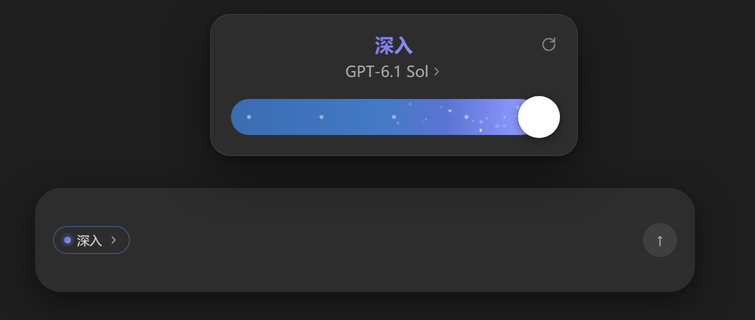
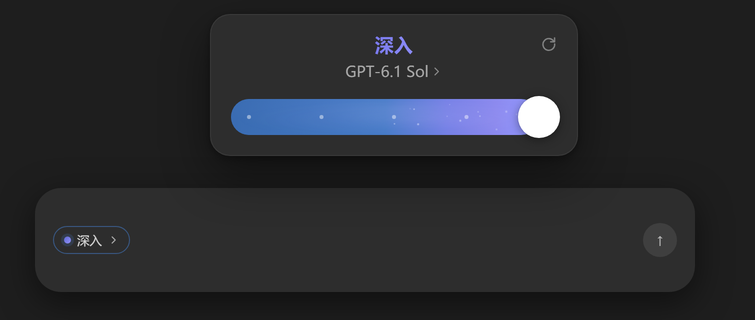
refine(ultra): 审美方向交给 gpt-6.1-sol，重做浮尘与材质光
扫描放慢到 2.8s / cubic-bezier(.30,.08,.25,1)，并整体重做最高档的质感：

- 浮尘 36 → 24 颗，三层景深（18 远景小而实 / 5 中景小实核 / 4→1 近景大而虚），
  用径向渐变软边代替纯白实心 + box-shadow 光晕。
- 运动改成两轴独立周期（X 10-23s、Y 7.5-18s、均闭合往返），合成弯曲轨迹，
  不再是一根直线来回，也不会全体同步；明灭改成 5.3-9.1s 呼吸，不再闪。
- 新增材质柔光层（11.7s 只动 opacity）+ 表面静态径向高光，负责「材质发光」。
- 显眼的几颗按左到右手工打散纵向位置，不再落在同一水平线上。
- 外溅收敛到 10 颗、偏紫 #7772d8。
- 补 prefers-reduced-motion 兜底。

保持的部分：材质色仍是我对参考图逐像素采样的结果；扫描仍是滑动渐变
（Sol 建议的「钉住材质 + 反向位移」会换来一道硬边，与参考的柔和前沿不符）。
验证：冻结帧 20/50/85/100% 确认前沿依次左移且无硬边；开/关运动两张图对比，
同颗粒子位移平均 7.1px、最大 14.7px（2x 缩放）。

Changed region(s): [[0.5179, 0.3125, 0.6397, 0.4375]]

diff --git a/lib/client.js b/lib/client.js
@@ -133,60 +133,97 @@ body:not([data-ds-dark-theme]) .dshcps-tip{
   background:linear-gradient(90deg,var(--dshcps-accent-dim),var(--dshcps-accent));
   transition:width .24s cubic-bezier(.2,0,0,1),background .24s ease;
 }
-/* 最高档：一条 2 倍宽的渐变，左半是基础蓝、右半是紫色本体，靠 background-position
-   把「取景窗」从右往左推 —— 紫色就从右边缘滑进来，一路铺满整条轨道。
-   只用 background-position 做动画（插值一定平滑），而且过渡带天然是软的；
-   前沿的颜色接着基础蓝（#447ac6 → #5b74d3），所以看不到硬边。 */
+/* 最高档（Ultra）：一条 2 倍宽的材质（左半基础蓝、右半紫蓝本体），用
+   background-position 把「取景窗」从右往左推 —— 紫色连同星尘一起从右边缘铺开。
+   只动 background-position 的插值一定平滑，而且两半在基础蓝处接续，
+   所以扫描前沿是一道柔和的过渡，不是一刀切。
+   顶层那圈径向柔光不动，只呼吸，负责「材质里有光」而不是「白点堆叠」。 */
 .dshcps-ultra{
-  position:absolute; inset:0; border-radius:inherit; overflow:hidden;
-  background-image:linear-gradient(90deg,
-    var(--dshcps-accent-dim) 0%, #3a6cb2 25%, var(--dshcps-accent) 50%,
-    #5b74d3 60%, #8896fa 71%, #9298ff 76%, #8a8bf6 81%,
-    #6d72db 88%, #5f68d0 95%, #616dd3 100%);
-  background-size:200% 100%;
+  position:absolute; inset:0; overflow:hidden; border-radius:inherit; pointer-events:none;
+  --dshcps-sweep:2.8s;
+  --dshcps-sweep-ease:cubic-bezier(.30,.08,.25,1);
+  background-image:
+    radial-gradient(ellipse at 54% 28%,
+      rgba(211,203,255,.14) 0%, rgba(185,175,255,.05) 38%, rgba(185,175,255,0) 72%),
+    linear-gradient(90deg,
+      var(--dshcps-accent-dim) 0%, #3a6cb2 25%, var(--dshcps-accent) 50%,
+      #737fe5 60%, #8b89ee 68%, #9298ff 74%, #908cf1 79%,
+      #7b7be3 88%, #616dd3 100%);
+  background-size:100% 100%, 200% 100%;
   background-repeat:no-repeat;
-  background-position:0% 0%;
-  animation:dshcps-ultra-sweep .95s cubic-bezier(.2,.72,.24,1) both;
+  background-position:0 0, 0% 0%;
+  animation:dshcps-ultra-sweep var(--dshcps-sweep) var(--dshcps-sweep-ease) both;
 }
 @keyframes dshcps-ultra-sweep{
-  0%{background-position:0% 0%}
-  100%{background-position:100% 0%}
+  0%{background-position:0 0, 0% 0%}
+  100%{background-position:0 0, 100% 0%}
 }
+/* 材质柔光：只改 opacity，不动 background-position，也不做 blur。 */
+.dshcps-ultra-haze{
+  position:absolute; inset:0; pointer-events:none;
+  background:radial-gradient(ellipse at 61% 58%,
+    rgba(218,204,255,.22) 0%, rgba(199,187,255,.08) 34%, rgba(199,187,255,0) 72%);
+  animation:dshcps-haze-breathe 11.7s ease-in-out infinite;
+  animation-delay:-3.8s;
+}
+@keyframes dshcps-haze-breathe{ 0%,100%{opacity:.2} 50%{opacity:.49} }
+
+/* 星尘跟着同一套时长/缓动被揭示，做到「紫到哪儿、粒子到哪儿」。 */
 .dshcps-stars{
   position:absolute; inset:0; pointer-events:none;
-  animation:dshcps-ultra-stars-in .95s cubic-bezier(.2,.72,.24,1) both;
+  animation:dshcps-ultra-stars-in var(--dshcps-sweep) var(--dshcps-sweep-ease) both;
 }
 @keyframes dshcps-ultra-stars-in{
-  0%{clip-path:inset(0 0 0 96% round 999px);opacity:.25}
+  0%{clip-path:inset(0 0 0 96% round 999px);opacity:.2}
   100%{clip-path:inset(0 0 0 0% round 999px);opacity:1}
 }
-.dshcps-stars{position:absolute;inset:0;pointer-events:none}
+/* 固定锚点，不承担动画；X / Y 各自一个周期，合起来不是直线往返也不会全体同步。 */
+.dshcps-particle{position:absolute; width:0; height:0}
+.dshcps-particle-x,.dshcps-particle-y{position:absolute; left:0; top:0; width:0; height:0}
+.dshcps-particle-x{animation:dshcps-dust-x var(--dshcps-tx) ease-in-out infinite; animation-delay:var(--dshcps-delay-x)}
+.dshcps-particle-y{animation:dshcps-dust-y var(--dshcps-ty) ease-in-out infinite; animation-delay:var(--dshcps-delay-y)}
+@keyframes dshcps-dust-x{
+  0%,100%{transform:translate3d(calc(0px - var(--dshcps-ax)),0,0)}
+  50%{transform:translate3d(var(--dshcps-ax),0,0)}
+}
+@keyframes dshcps-dust-y{
+  0%,100%{transform:translate3d(0,calc(0px - var(--dshcps-ay)),0)}
+  50%{transform:translate3d(0,var(--dshcps-ay),0)}
+}
 .dshcps-star{
-  position:absolute; border-radius:50%; background:#fff;
-  animation:dshcps-twinkle var(--tw,3s) ease-in-out infinite,
-            dshcps-drift var(--dr,6s) ease-in-out infinite alternate;
+  position:absolute; display:block; left:0; top:0; border-radius:50%; pointer-events:none;
+  width:var(--dshcps-size); height:var(--dshcps-size);
+  margin-left:calc(var(--dshcps-size) * -.5); margin-top:calc(var(--dshcps-size) * -.5);
+  animation:dshcps-dust-breathe var(--dshcps-tw) ease-in-out infinite;
+  animation-delay:var(--dshcps-delay-tw);
 }
-.dshcps-star.is-glow{box-shadow:0 0 6px rgba(255,255,255,.55)}
-@keyframes dshcps-twinkle{
-  0%,100%{opacity:var(--dshcps-o,.8)}
-  50%{opacity:calc(var(--dshcps-o,.8) * .3)}
+/* 三层景深：远景小而实、中景有小实核、近景大而虚（用径向渐变软边代替动态 blur） */
+.dshcps-star--far{background:#dce5ff}
+.dshcps-star--mid{background:radial-gradient(circle,
+  rgba(245,244,255,.96) 0%, rgba(225,229,255,.83) 32%, rgba(211,220,255,.34) 64%, rgba(211,220,255,0) 100%)}
+.dshcps-star--near{background:radial-gradient(circle,
+  rgba(235,231,255,.82) 0%, rgba(218,215,255,.48) 27%, rgba(205,207,255,.14) 58%, rgba(205,207,255,0) 76%)}
+@keyframes dshcps-dust-breathe{
+  0%,100%{opacity:var(--dshcps-o-low);transform:scale(.94)}
+  50%{opacity:var(--dshcps-o);transform:scale(1.06)}
 }
-/* 粒子会飘：缓慢来回漂移，配合闪烁像浮在紫色里 */
-@keyframes dshcps-drift{
-  from{transform:translate3d(0,0,0)}
-  to{transform:translate3d(var(--dx,5px),var(--dy,-3px),0)}
-}
-/* 档位切换到最高档时，从拖柄位置向外溅一小簇粒子（蔓延出去那一下） */
+/* 切档的外溅只是标点，不抢常驻浮尘的戏；颜色偏紫而不是纯白烟花。 */
 .dshcps-burst{position:absolute;top:50%;width:0;height:0;pointer-events:none}
 .dshcps-spark{
-  position:absolute;left:0;top:0;border-radius:50%;background:#fff;
-  animation:dshcps-spark 1.15s cubic-bezier(.18,.7,.3,1) both;
+  position:absolute;left:0;top:0;border-radius:50%;background:#7772d8;box-shadow:none;
+  animation:dshcps-spark .95s cubic-bezier(.18,.65,.3,1) both;
   animation-delay:var(--d,0s);
 }
 @keyframes dshcps-spark{
-  0%{opacity:0;transform:translate3d(0,0,0) scale(.35)}
-  16%{opacity:var(--o,.9)}
-  100%{opacity:0;transform:translate3d(var(--sx),var(--sy),0) scale(1)}
+  0%{opacity:0;transform:translate3d(0,0,0) scale(.45)}
+  18%{opacity:calc(var(--o,.6) * .65)}
+  100%{opacity:0;transform:translate3d(var(--sx),var(--sy),0) scale(.8)}
+}
+@media (prefers-reduced-motion:reduce){
+  .dshcps-ultra,.dshcps-ultra-haze,
+  .dshcps-particle-x,.dshcps-particle-y,.dshcps-star{animation:none}
+  .dshcps-star{opacity:var(--dshcps-o)}
+  .dshcps-burst{display:none}
 }
 .dshcps-dot{
   position:absolute; top:50%; width:4px; height:4px; margin:-2px 0 0 -2px; border-radius:50%;
@@ -360,80 +397,138 @@ body:not([data-ds-dark-theme]) .dshcps-tip{
       )
     }
 
-    /** 粒子层：位置/大小/漂移方向都由档位 id 决定，稳定且不需要 canvas。 */
-    function StarField({ seedKey, count = 34 }) {
-      const stars = React.useMemo(() => {
-        const random = makeRandom(hashSeed(seedKey))
-        const out = []
-        for (let i = 0; i < count; i++) {
-          const size = 1.4 + random() * 2.6
-          // 中间偏右更密一点，和原版一样是「从右侧蔓过来」的感觉
-          const bias = random()
-          out.push({
-            left: 1 + (bias < 0.55 ? Math.pow(random(), 0.75) : random()) * 97,
-            top: 10 + random() * 80,
-            size,
-            glow: size > 2.6,
-            opacity: 0.26 + random() * 0.7,
-            twinkle: 2 + random() * 2.2,
-            twinkleDelay: -random() * 3,
-            drift: 4.5 + random() * 3.5,
-            driftDelay: -random() * 4,
-            dx: (random() - 0.35) * 9,
-            dy: (random() - 0.5) * 7,
-          })
+    /**
+     * 浮尘参数表：24 颗、三层景深（远景小而实 / 中景有实核 / 近景大而虚）。
+     * 位置做水平分层抖动，避免纯随机挤成一团；X / Y 各自一个周期，
+     * 合起来是弯曲轨迹而不是直线往返，也不会全体同步。
+     * 一次性生成（模块级），不参与组件每次 render。
+     */
+    function makeDust(seed) {
+      const random = makeRandom(seed)
+      const between = (min, max) => min + random() * (max - min)
+      const out = []
+      const count = 24
+      // 18 远景 / 5 中景 / 1 近景；中景索引 3/10/15/18/22，近景 6
+      const MID = { 3: 1, 10: 1, 15: 1, 18: 1, 22: 1 }
+      const NEAR = { 6: 1 }
+      for (let i = 0; i < count; i++) {
+        const kind = NEAR[i] ? 'near' : MID[i] ? 'mid' : 'far'
+        let size
+        let opacity
+        let ax
+        let ay
+        let tx
+        let ty
+        if (kind === 'near') {
+          size = between(4.0, 4.6)
+          opacity = between(0.28, 0.43)
+          ax = between(7, 11)
+          ay = between(3.0, 5.5)
+          tx = between(10, 14)
+          ty = between(7.5, 11)
+        } else if (kind === 'mid') {
+          size = between(2.4, 3.4)
+          opacity = between(0.5, 0.72)
+          ax = between(5, 9)
+          ay = between(2.5, 4.8)
+          tx = between(12, 17)
+          ty = between(9, 14)
+        } else {
+          size = between(1.1, 2.1)
+          opacity = between(0.3, 0.62)
+          ax = between(3, 6.5)
+          ay = between(1.8, 3.8)
+          tx = between(15, 23)
+          ty = between(11, 18)
         }
-        return out
-      }, [seedKey, count])
+        const tw = between(5.3, 9.1)
+        out.push({
+          id: i,
+          kind,
+          left: 3 + ((i + random()) / count) * 94,
+          top: between(13, 87),
+          style: {
+            '--dshcps-size': size.toFixed(3) + 'px',
+            '--dshcps-o': opacity.toFixed(3),
+            '--dshcps-o-low': (opacity * between(0.6, 0.78)).toFixed(3),
+            '--dshcps-ax': ax.toFixed(3) + 'px',
+            '--dshcps-ay': ay.toFixed(3) + 'px',
+            '--dshcps-tx': tx.toFixed(3) + 's',
+            '--dshcps-ty': ty.toFixed(3) + 's',
+            '--dshcps-tw': tw.toFixed(3) + 's',
+            // 从第一帧起就处在各自的相位，切档时不会所有粒子一起出发
+            '--dshcps-delay-x': (-random() * tx).toFixed(3) + 's',
+            '--dshcps-delay-y': (-random() * ty).toFixed(3) + 's',
+            '--dshcps-delay-tw': (-random() * tw).toFixed(3) + 's',
+          },
+        })
+      }
+      // 显眼的几颗不落在同一条水平线上，也不等距：纵向位置由左到右手工打散
+      const spread = [32, 67, 43, 72, 55, 24, 80, 38]
+      out
+        .filter((p) => p.kind !== 'far')
+        .sort((a, b) => a.left - b.left)
+        .forEach((p, i) => {
+          p.top = spread[i % spread.length]
+        })
+      for (const particle of out) {
+        particle.style.left = particle.left.toFixed(3) + '%'
+        particle.style.top = particle.top.toFixed(3) + '%'
+      }
+      return out
+    }
+
+    const ULTRA_DUST = makeDust(0x53a91f2d)
+
+    function DustParticle({ particle }) {
       return h(
-        'div',
-        { className: 'dshcps-stars', 'aria-hidden': 'true' },
-        stars.map((star, i) =>
-          h('span', {
-            key: i,
-            className: 'dshcps-star' + (star.glow ? ' is-glow' : ''),
-            style: {
-              left: star.left + '%',
-              top: star.top + '%',
-              width: star.size + 'px',
-              height: star.size + 'px',
-              '--dshcps-o': star.opacity,
-              '--tw': star.twinkle + 's',
-              '--dr': star.drift + 's',
-              '--dx': star.dx.toFixed(2) + 'px',
-              '--dy': star.dy.toFixed(2) + 'px',
-              animationDelay: star.twinkleDelay + 's, ' + star.driftDelay + 's',
-            },
-          }),
+        'span',
+        { className: 'dshcps-particle', style: particle.style },
+        h(
+          'span',
+          { className: 'dshcps-particle-x' },
+          h(
+            'span',
+            { className: 'dshcps-particle-y' },
+            h('span', { className: 'dshcps-star dshcps-star--' + particle.kind }),
+          ),
         ),
       )
     }
 
-    /** 最高档：紫色层 + 跟着一起从右向左蔓延的粒子。 */
-    function UltraLayer({ seedKey }) {
-      return h('div', { className: 'dshcps-ultra', 'aria-hidden': 'true' }, h(StarField, { seedKey }))
+    /** 最高档：滑动的紫蓝材质 + 呼吸柔光 + 24 颗浮尘，粒子跟着材质一起从右往左铺开。 */
+    function UltraLayer() {
+      return h(
+        'div',
+        { className: 'dshcps-ultra', 'aria-hidden': 'true' },
+        h('div', { className: 'dshcps-ultra-haze' }),
+        h(
+          'div',
+          { className: 'dshcps-stars' },
+          ULTRA_DUST.map((particle) => h(DustParticle, { key: particle.id, particle })),
+        ),
+      )
     }
 
-    /** 切到最高档那一下，从拖柄位置向外溅出的粒子（会飞出轨道一点）。 */
-    function Burst({ seedKey, count = 14 }) {
+    /** 切到最高档那一下，从拖柄位置向外溅出的粒子（偏紫、克制，只做标点）。 */
+    function Burst({ count = 10 }) {
       const sparks = React.useMemo(() => {
-        const random = makeRandom(hashSeed(seedKey + ':burst'))
+        const random = makeRandom(hashSeed('dshcps:burst'))
         const out = []
         for (let i = 0; i < count; i++) {
           // 角度偏上半圈 + 右侧，和原版一样主要往右上散
           const angle = (-Math.PI * 0.92) * random() + Math.PI * 0.06
-          const distance = 16 + random() * 26
-          const size = 1.6 + random() * 2.4
+          const distance = 14 + random() * 26
           out.push({
-            sx: Math.cos(angle) * distance,
+            sx: (Math.cos(angle) * distance) / 1.1,
             sy: Math.sin(angle) * distance,
-            size,
-            opacity: 0.35 + random() * 0.6,
-            delay: random() * 0.18,
+            size: 1.3 + random() * 1.8,
+            opacity: 0.35 + random() * 0.3,
+            delay: random() * 0.1,
           })
         }
         return out
-      }, [seedKey, count])
+      }, [count])
       return h(
         'div',
         { className: 'dshcps-burst', 'aria-hidden': 'true' },
@@ -854,7 +949,7 @@ body:not([data-ds-dark-theme]) .dshcps-tip{
               h(
                 'div',
                 { className: 'dshcps-fill', style: { width: total > 0 ? knobLeft : '0px' } },
-                isUltra ? h(UltraLayer, { seedKey: effort ? effort.id : 'ultra' }) : null,
+                isUltra ? h(UltraLayer) : null,
               ),
               h(
                 'div',
@@ -872,7 +967,7 @@ body:not([data-ds-dark-theme]) .dshcps-tip{
                 ? h(
                     'div',
                     { className: 'dshcps-burst', style: { left: knobLeft } },
-                    h(Burst, { seedKey: effort ? effort.id : 'ultra' }),
+                    h(Burst, {}),
                   )
                 : null,
             ),

diff --git a/README.md b/README.md
@@ -29,17 +29,28 @@
 
 ## 最高档（Ultra）的动效
 
-切到最高档不是「换个颜色」，而是一段 0.95s 的动效：
+切到最高档不是「换个颜色」，而是一段 2.8s 的动效：
 
-- **紫色从右边缘向左扫过**：一条 2 倍宽的渐变（左半基础蓝、右半紫色本体），靠
-  `background-position` 把取景窗从右往左推。用 `background-position` 而不是
-  `mask-image`，是因为它的插值在任何 Chromium 上都一定平滑；两半渐变在 `#447ac6`
-  处接续，所以扫描前沿是一道柔和过渡，看不到硬边。
-- **粒子跟着蔓延**：34 颗粒子长在紫色层里，用同一套时长与缓动做 `clip-path` 揭示，
+- **紫色从右边缘向左扫过**：一条 2 倍宽的材质（左半基础蓝、右半紫蓝本体），靠
+  `background-position` 把取景窗从右往左推。用 `background-position` 而不是位移裁切，
+  是因为它的插值在任何 Chromium 上都一定平滑；两半渐变在基础蓝 `#447ac6` 处**颜色接续**，
+  所以扫描前沿是一道柔和过渡，不是一刀切。
+- **粒子跟着蔓延**：24 颗浮尘长在材质层里，用同一套时长与缓动做 `clip-path` 揭示，
   「紫到哪儿、粒子到哪儿」，不是一开始就铺满。
-- **粒子会动**：每颗粒子同时跑两个动画 —— 透明度闪烁 + 缓慢漂移（`translate3d`
-  来回漂，单颗 4.5–8s、位移 3–9px），整条轨道是活的。
-- **向外溅一下**：切换瞬间从拖柄位置溅出 14 颗小粒子，飞出轨道一点再消失。
+- **粒子会飘（不是只闪）**：每颗浮尘挂在两层锚点上，**X / Y 各跑一个独立周期**
+  （X 10–23s、Y 7.5–18s，均 `ease-in-out` 闭合往返），合成弯曲轨迹 —— 既不是直线往返，
+  也不会全体同步；粒子自身只做 5.3–9.1s 的**呼吸**（最低降到峰值的 60–78%），不再闪烁。
+- **三层景深**：18 颗远景（1.1–2.1px 小而实）、5 颗中景（2.4–3.4px，小实核 + 软边）、
+  1 颗近景（4.0–4.6px，大而虚）。用径向渐变软边代替动态 `blur`，静态绘制、只动
+  `transform / opacity`。
+- **材质里有光**：两层静态径向柔光，其中一层以 11.7s 缓慢呼吸，负责「材质发光」而不是
+  「白点堆叠」。
+- **向外溅一下**：切换瞬间从拖柄位置溅出 10 颗偏紫 `#7772d8` 的小粒子，0.95s 后消失。
+- **尊重系统设置**：`prefers-reduced-motion: reduce` 时停掉全部动效。
+
+> 这一版的审美方向由 **gpt-6.1-sol** 给出（差距诊断 + 参数表 + 复审收口），
+> 落地时保留了我按参考图逐像素采样的材质色，并把「钉住材质」的裁切方案换回
+> 滑动渐变，以保住原版那条柔和的前沿。
 
 ## 特性
 
